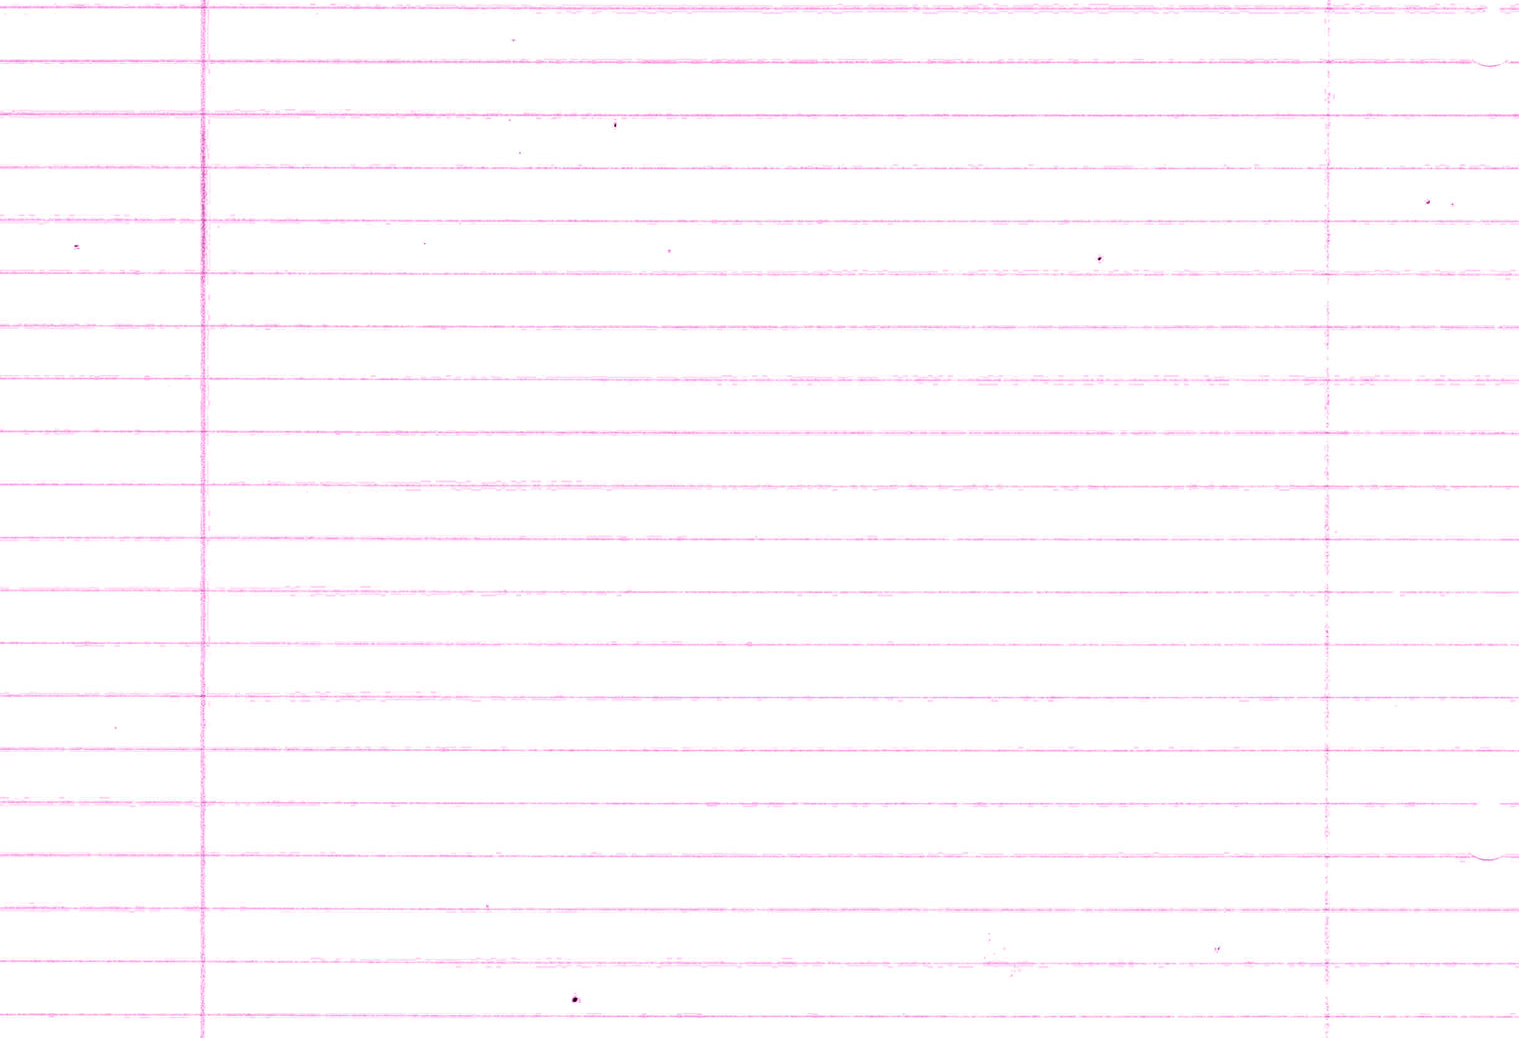
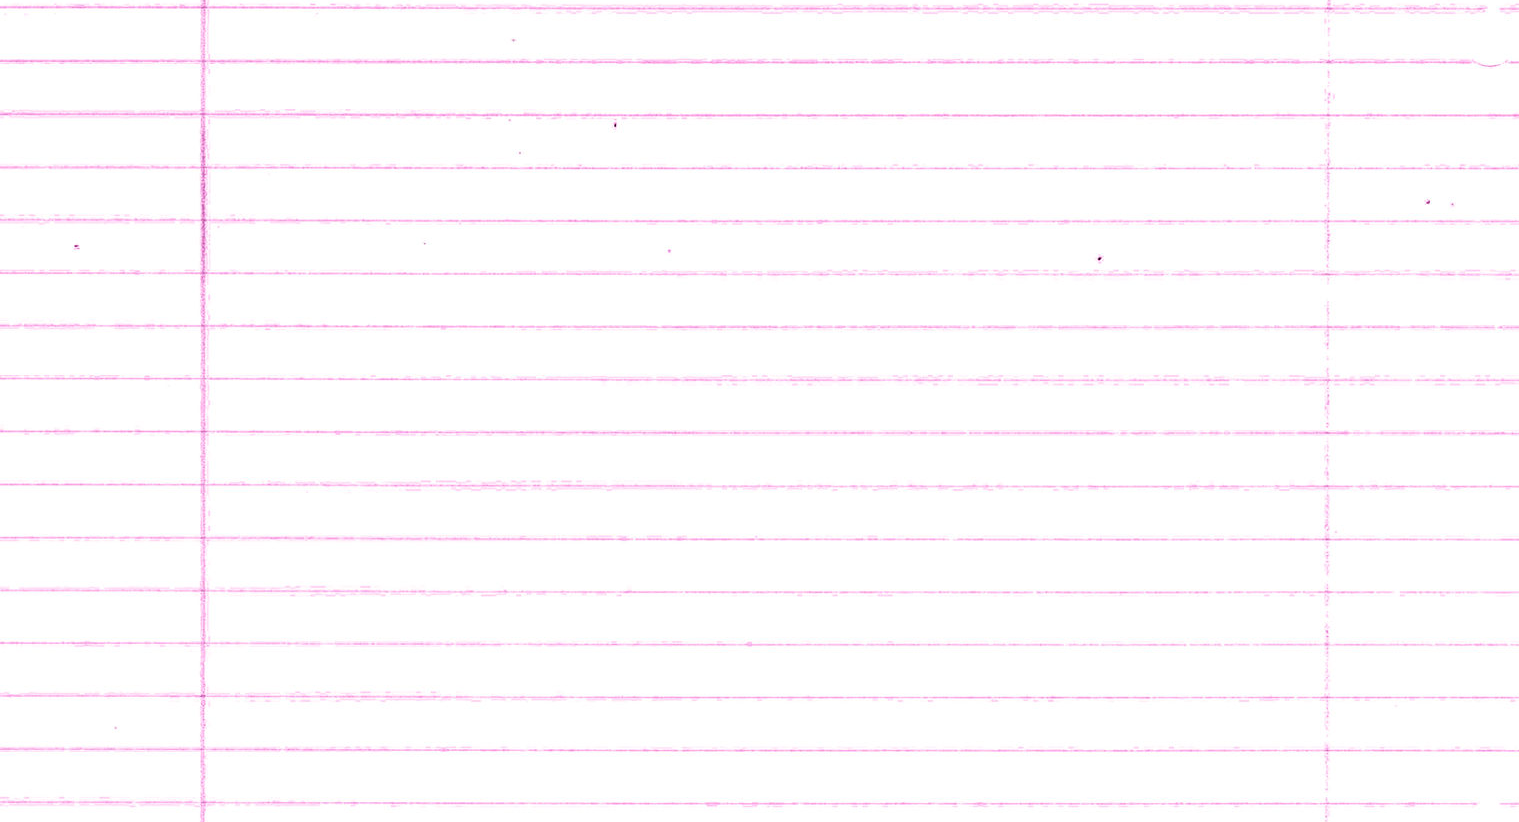
bg back

diff --git a/sketchone.js b/sketchone.js
@@ -17,6 +17,7 @@ function preload() {
 
 function setup() {
   createCanvas(windowWidth, windowHeight);
+  image(bgimg, 0, 0);
   image(house, width / 6, height / 12);
 }
 

diff --git a/indexstyle.css b/indexstyle.css
@@ -1,7 +1,5 @@
 html,
 body {
-  background-image: url(sizedpinknotebookpaper.png);
-  background-size: cover;
   margin: 0;
   padding: 0;
 }
